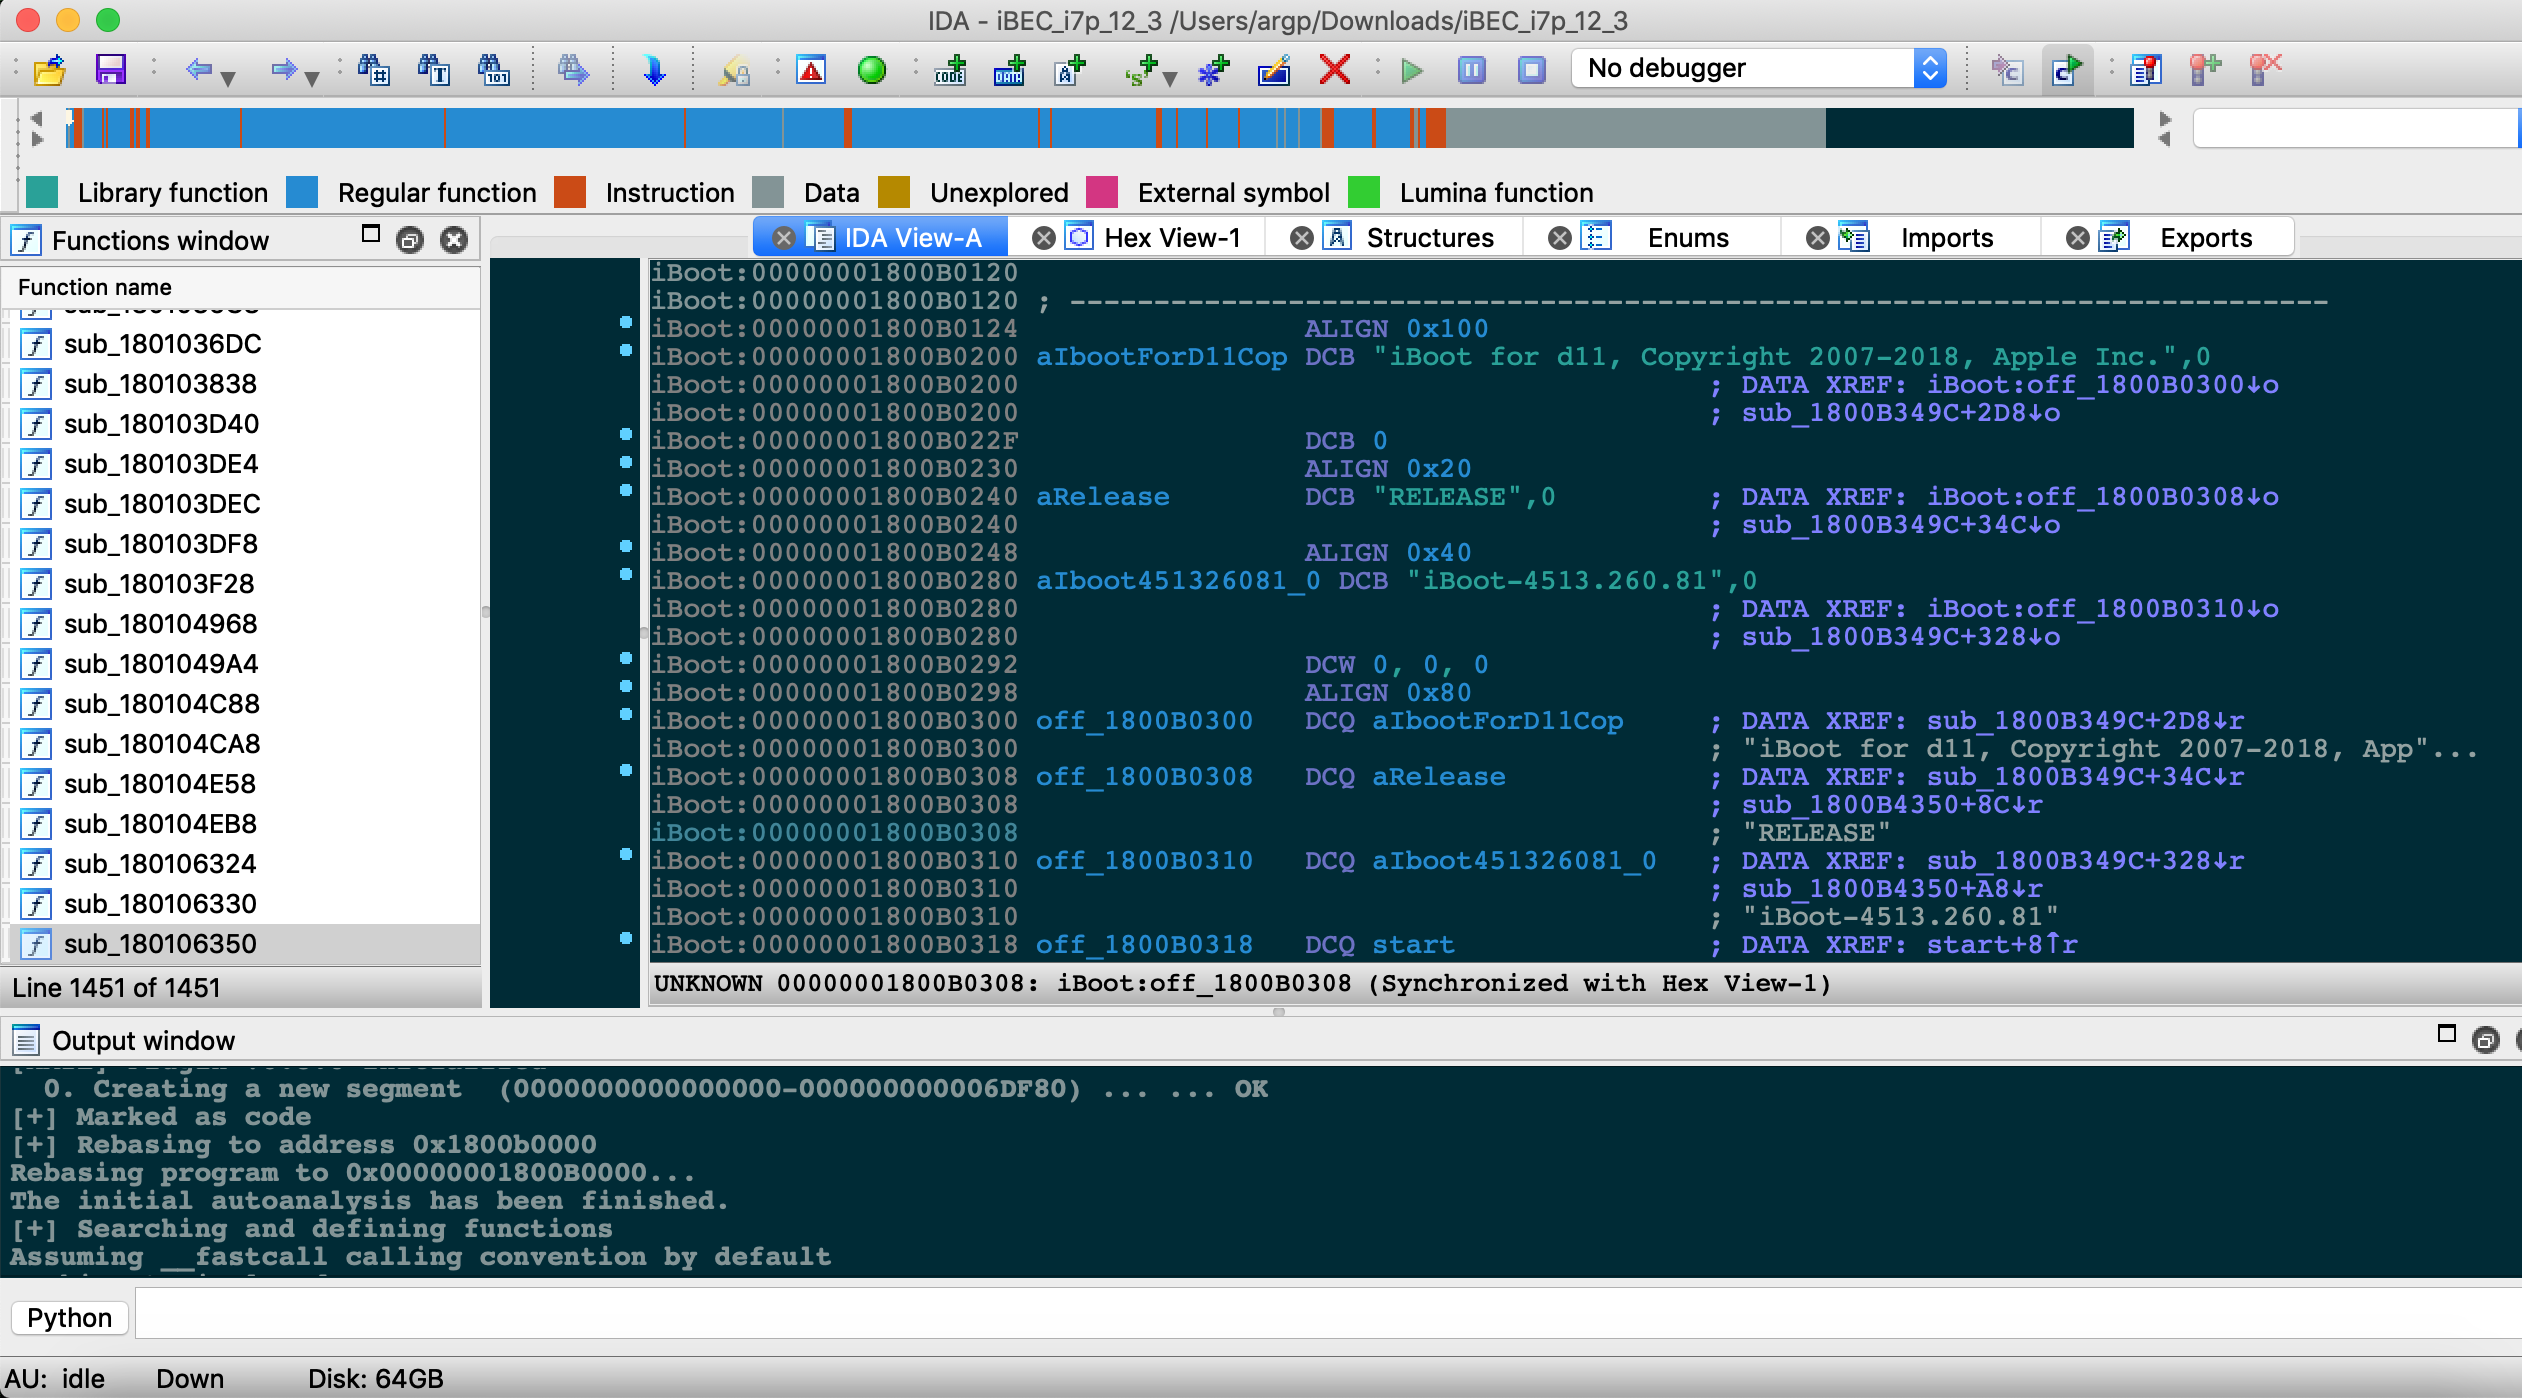
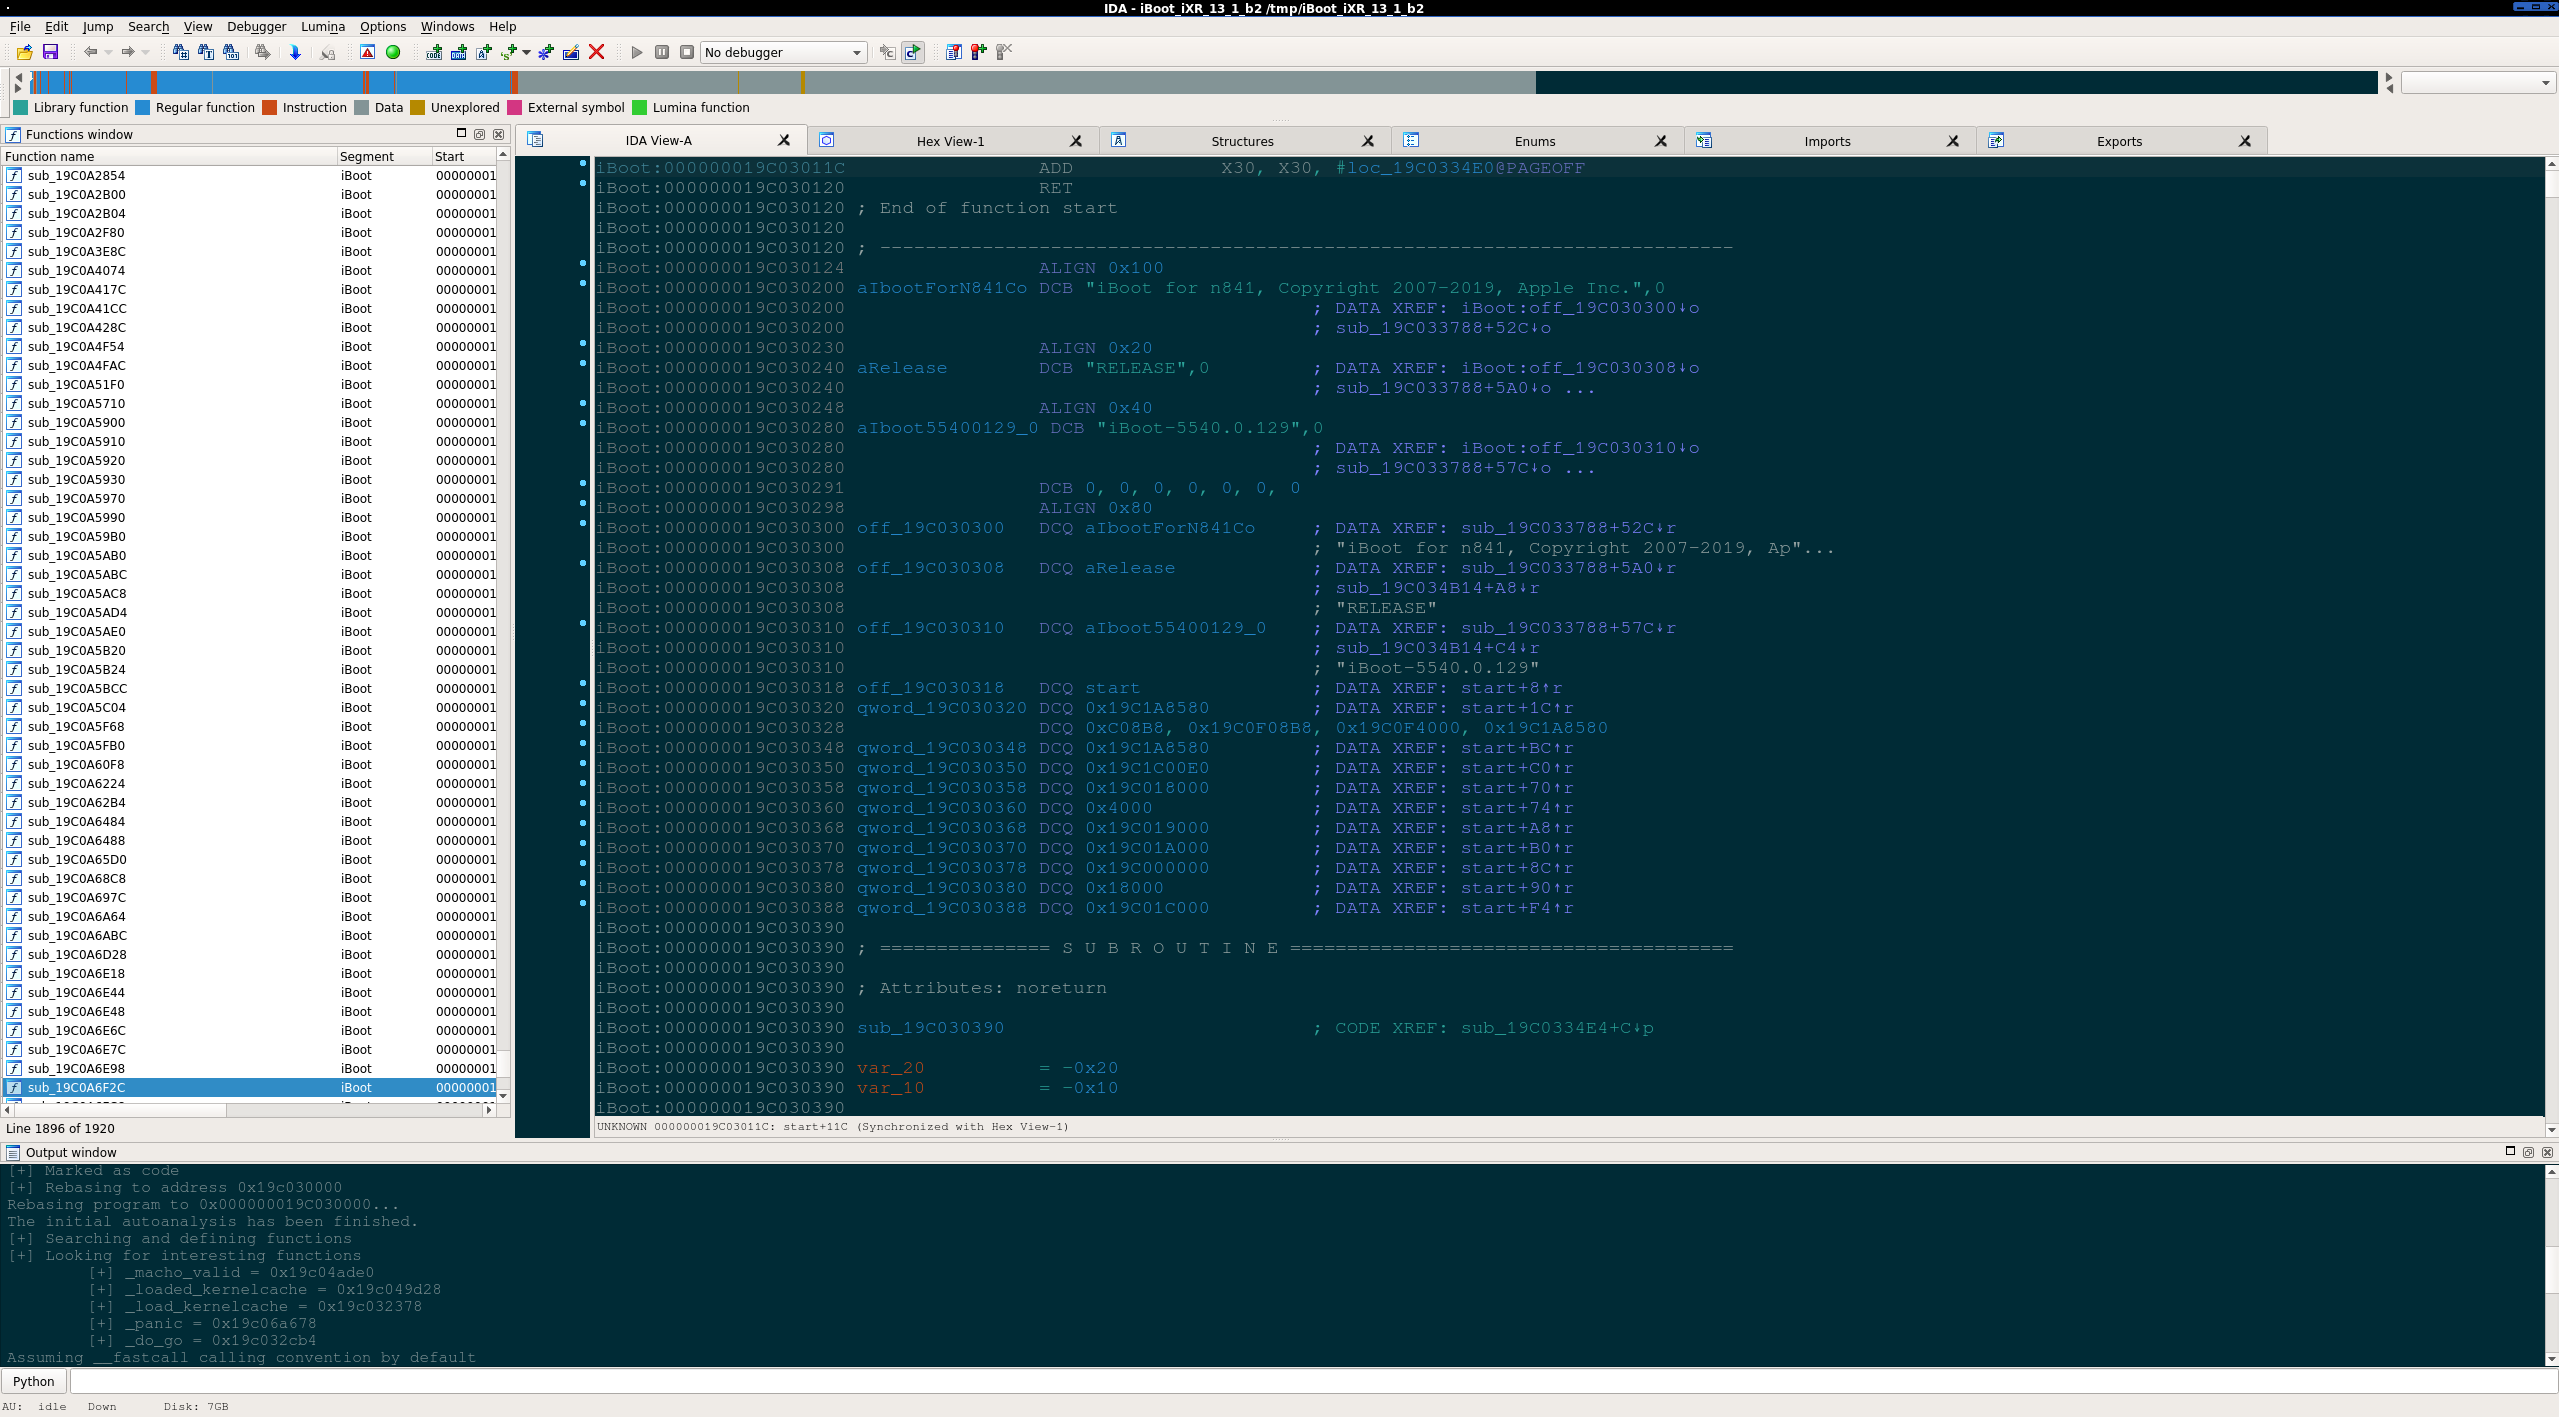
vs 5540.0.129

diff --git a/README.md b/README.md
@@ -10,18 +10,19 @@ directory, launch IDA, and open a *decrypted* iBoot or iBEC binary image.
 <p align="center"><img src="screenshot-loader.png"/></p>
 
 This aims to become an IDAPython utility to help with iBoot64 reverse
-engineering. Currently it just locates iBoot's proper loading address,
-rebases the image, and identifies ARM64 functions based on a common
-function prologue. As you can see in the screenshot below, 1451 functions
-are recognized after running it on iBoot version 4513.260.81.
+engineering. Currently it a) locates iBoot's proper loading address,
+b) rebases the image, c) identifies ARM64 functions based on a common
+function prologue, and d) finds and renames some interesting functions.
+
+As you can see in the screenshot below, 1920 functions
+are recognized after running it on iBoot version 5540.0.129.
 
 <p align="center"><img src="screenshot.png"/></p>
 
 It's not much at this point, but hopefully it can help you start reversing
 the beast ;)
 
-I will be adding features to it, like function renaming based on string
-usage, etc.
+I will be adding features to it, identifying more functions, etc.
 
 ## References
 [iOS RE Wiki](https://github.com/kpwn/iOSRE/blob/master/wiki/iBoot-RE.md)
